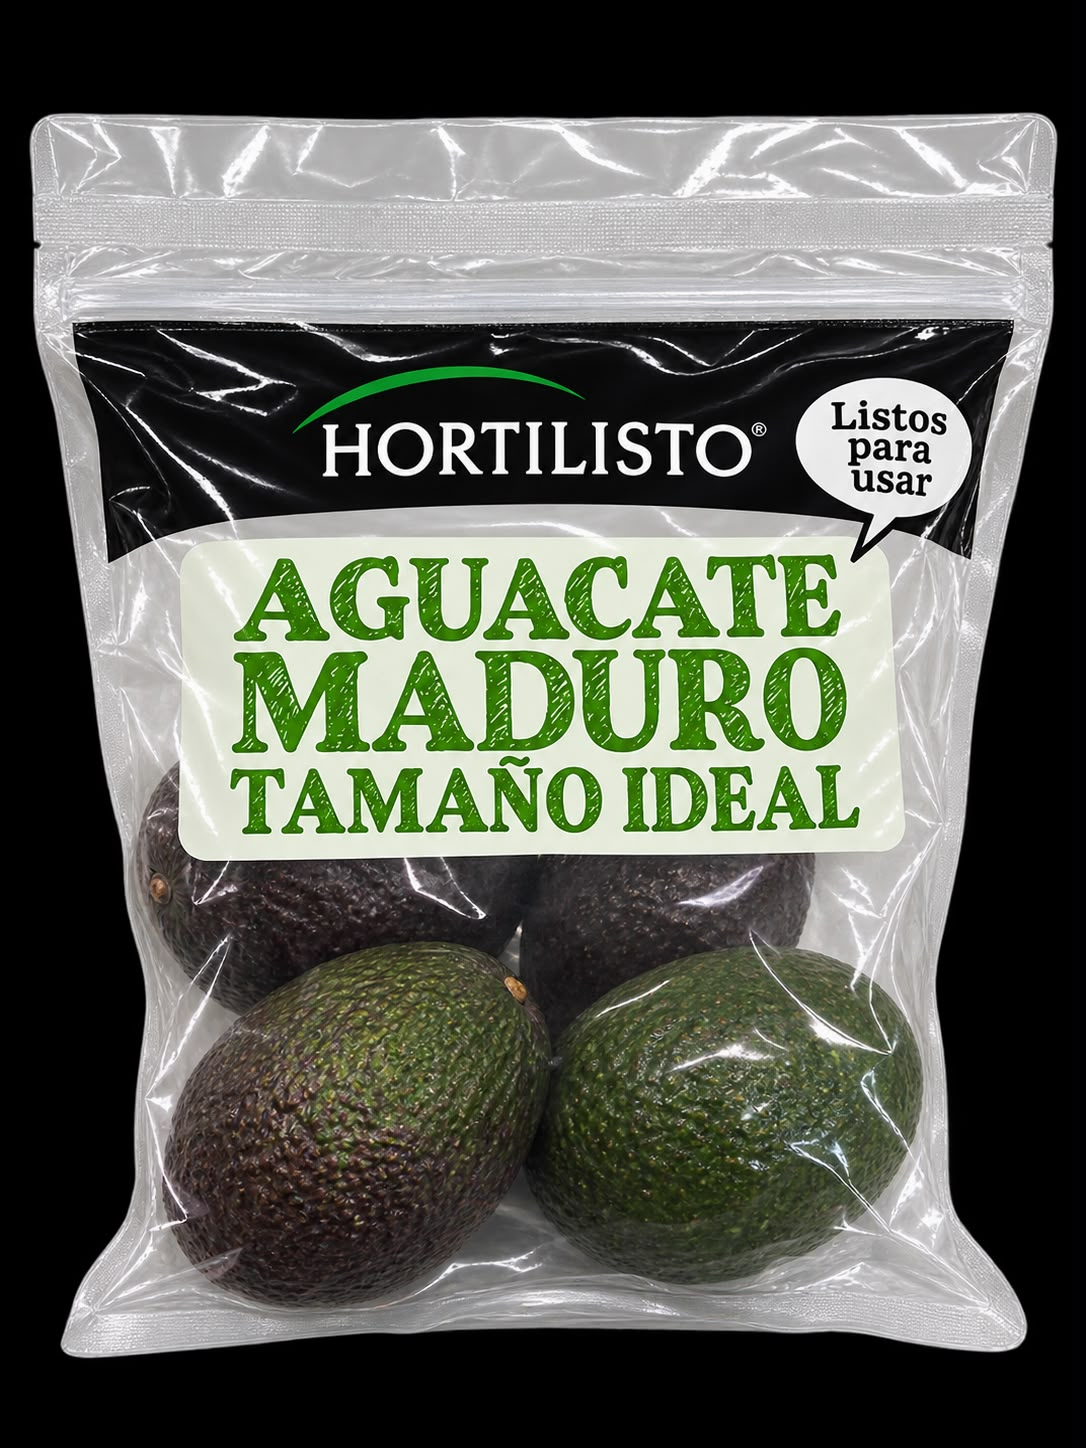
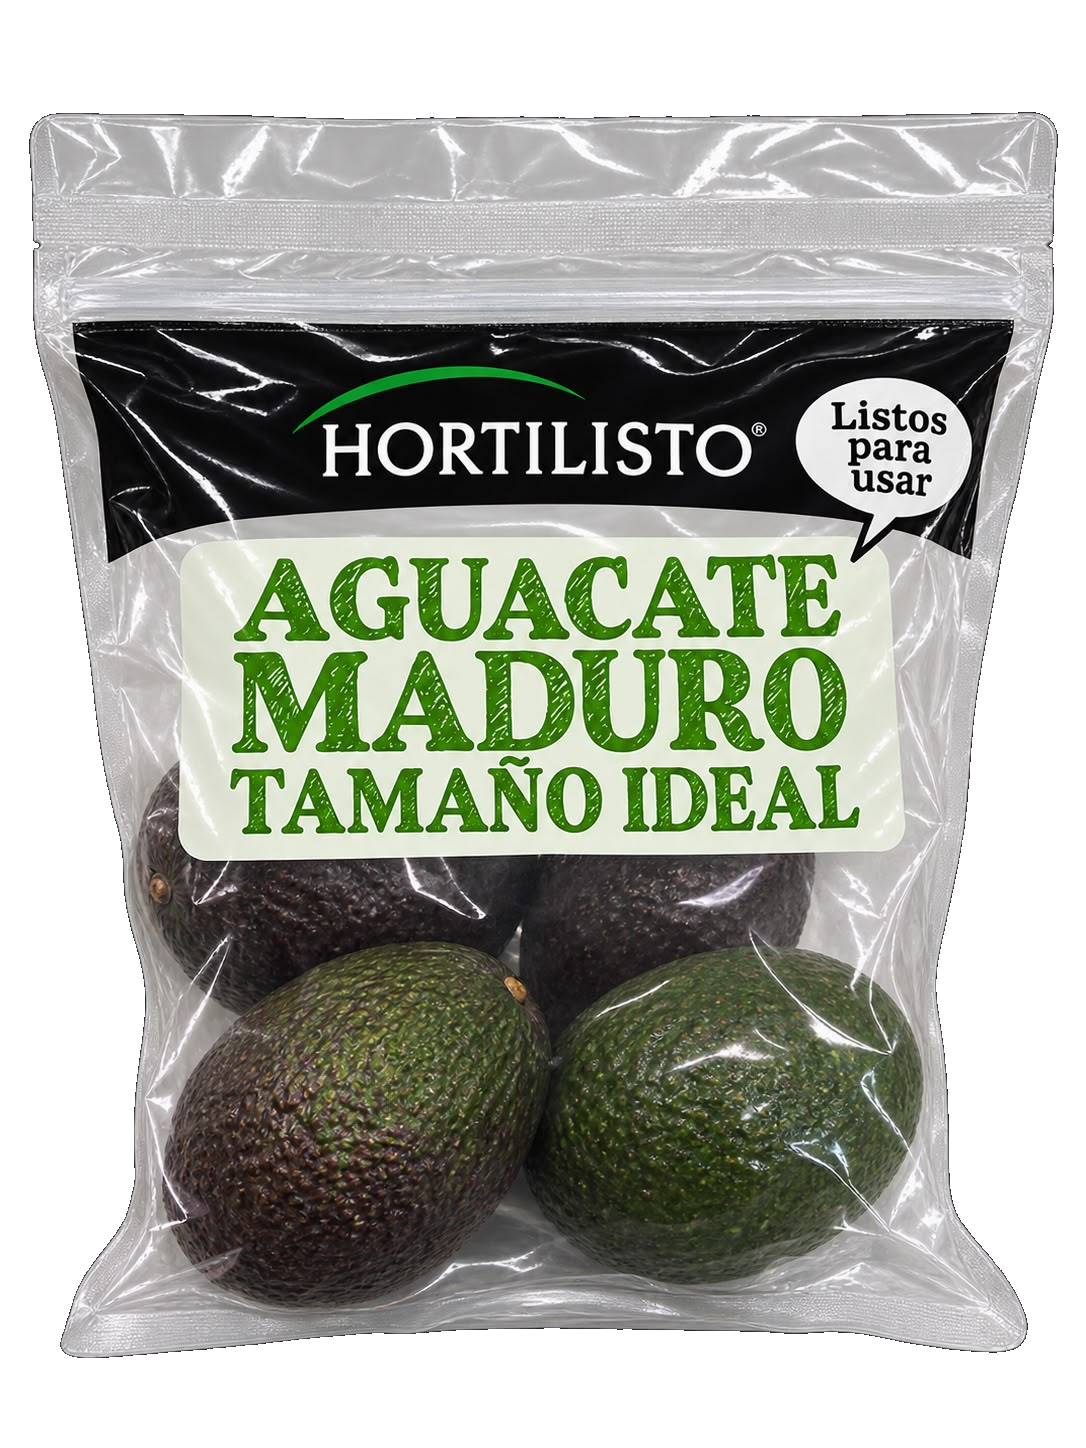
feat(assets): update product images
Replace and add new product images to the asset library.

Changed region(s): [[0.0, 0.0, 1.0, 1.0]]

diff --git a/src/data/brandsData.ts b/src/data/brandsData.ts
@@ -38,7 +38,7 @@ import dhoyColdRemolachaImg from '../assets/remolachanuevocoldpressed.png';
 // DHOY Shots
 import dhoyShotInmuniImg from '../assets/inmunishotjengibre.png';
 import dhoyShotInmuniPlusImg from '../assets/inmunishotplusnuevo.jpeg';
-import dhoyShotBalanceImg from '../assets/Balanceshotnueva.png';
+import dhoyShotEnergyImg from '../assets/energyshotpequeno.png';
 import dhoyShotDigestiImg from '../assets/digestishotplusnuevo.png';
 import dhoyShotDefenImg from '../assets/DEFENSHOTnueva.png';
 
@@ -63,20 +63,20 @@ import ecoloveMielAgaveImg from '../assets/ECOLOVE-MIEL-DE-AGAVE-230ML.png';
 import ecolovePortadaSeccionImg from '../assets/ECOPACIFIC-ECOLOVE-SECCION-PORTADA2026.png';
 
 // HORTILISTO Productos
-import hlAguacateMaduroImg from '../assets/aguacatemaduro.png';
+import hlAguacateMaduroImg from '../assets/aguacatemaduro-1.png';
 import hlAguacatePackSemanalImg from '../assets/aguacatepacksemanal.png';
 import hlAguacateTamanoIdealImg from '../assets/aguacatemadurotamanoideal.png';
-import hlMixCebollaImg from '../assets/mix-cebolla.jpg';
-import hlMegaMixCebollaImg from '../assets/HORTILISTO6megamixcebolla.jpg';
-import hlCebollaPaitenitaImg from '../assets/cebollapaitenita.jpg';
-import hlCebollaPerlitaImg from '../assets/cebollaperlitas.jpg';
+import hlMixCebollaImg from '../assets/cebollasmixnuevas.png';
+import hlMegaMixCebollaImg from '../assets/megacebollanuevo.png';
+import hlCebollaPaitenitaImg from '../assets/paitenitas.png';
+import hlCebollaPerlitaImg from '../assets/perlitasnuevas.png';
 import hlPimientosColoresImg from '../assets/pimientos de colores.jpg';
-import hlZapalloImg from '../assets/zapallo.jpg';
+import hlZapalloImg from '../assets/zapallonuevo.png';
 import hlJengibreImg from '../assets/jengibre200g.jpg';
-import hlPinaGoldenImg from '../assets/pinagolden.jpg';
-import hlGuacamoleImg from '../assets/guacamole.jpg';
+import hlPinaGoldenImg from '../assets/pinagoldenextradulce.png';
+import hlGuacamoleImg from '../assets/guacamolehortilistonuevo.png';
 import hlGuacamoleTomatePimientoImg from '../assets/GUACAMOLE-CON-TOMATE-Y-PIMIENTO.png';
-import hlMangoImg from '../assets/mango.jpg';
+import hlMangoImg from '../assets/mangoencurtidonuevo.png';
 
 export const BRANDS_DATA: Record<string, Brand> = {
   'coco-freeze': {
@@ -241,11 +241,6 @@ export const BRANDS_DATA: Record<string, Brand> = {
         year: '2016',
         title: 'Nacen los shots',
         description: 'Inmunishot de jengibre se convierte en el protagonista de una nueva categoría.'
-      },
-      {
-        year: '2026',
-        title: 'Fruta de verdad',
-        description: 'Seguimos perfeccionando fruta y proceso para lograr un sabor consistentemente delicioso'
       }
     ],
     colors: {
@@ -314,7 +309,7 @@ export const BRANDS_DATA: Record<string, Brand> = {
         id: 'shots',
         name: 'Shots',
         tagline: 'Ingredientes potentes y combinaciones funcionales creadas para acompañar distintos momentos y necesidades de tu rutina.',
-        productIds: ['dh-shot-inmuni', 'dh-shot-inmuni-plus', 'dh-shot-balance', 'dh-shot-digesti', 'dh-shot-defen']
+        productIds: ['dh-shot-inmuni', 'dh-shot-inmuni-plus', 'dh-shot-energy', 'dh-shot-digesti', 'dh-shot-defen']
       },
       {
         id: 'especialidades-dhoy',
@@ -479,13 +474,13 @@ export const BRANDS_DATA: Record<string, Brand> = {
         imageUrl: dhoyShotInmuniPlusImg
       },
       {
-        id: 'dh-shot-balance',
-        name: 'Balanceshot',
+        id: 'dh-shot-energy',
+        name: 'Energyshot',
         brandId: 'dhoy',
         familyId: 'shots',
-        emotionalDescription: 'Cúrcuma y otros ingredientes en una combinación funcional pensada para acompañar tu equilibrio diario.',
+        emotionalDescription: 'Guaraná, maca y café verde en una fórmula pensada para darte un impulso natural de energía.',
         presentations: ['60 ml'],
-        imageUrl: dhoyShotBalanceImg
+        imageUrl: dhoyShotEnergyImg
       },
       {
         id: 'dh-shot-digesti',
@@ -665,7 +660,7 @@ export const BRANDS_DATA: Record<string, Brand> = {
         brandId: 'ecolove',
         familyId: 'aceites-de-aguacate',
         emotionalDescription: 'Con el carácter del aguacate y gran versatilidad en cocina. Su buena estabilidad al calor ayuda a tolerar altas temperaturas con menor oxidación.',
-        presentations: ['250 ml'],
+        presentations: ['250 ml', '500 ml'],
         imageUrl: ecoloveAceiteAguacateImg
       },
       {
@@ -839,15 +834,12 @@ export const BRANDS_DATA: Record<string, Brand> = {
         name: 'Vegetales y frutas listas',
         tagline: 'Nosotros adelantamos el trabajo. Tú haces la comida. Productos seleccionados, pelados, picados o listos para disfrutar.',
         productIds: [
-          'hl-achogcha',
           'hl-mix-cebollas',
           'hl-mix-mega-cebollas',
           'hl-paitenitas',
           'hl-perlita',
           'hl-pimientos-colores',
-          'hl-sambo-picado',
           'hl-zapallo-picado',
-          'hl-verdura-mazo',
           'hl-jengibre-bandeja',
           'hl-pina-golden'
         ]
@@ -895,15 +887,6 @@ export const BRANDS_DATA: Record<string, Brand> = {
         imageUrl: hlAguacateTamanoIdealImg
       },
       {
-        id: 'hl-achogcha',
-        name: 'Achogcha',
-        brandId: 'hortilisto',
-        familyId: 'vegetales-y-frutas-listas',
-        emotionalDescription: 'Lista para convertir una receta tradicional en algo mucho más práctico.',
-        presentations: ['400 g'],
-        imageUrl: hortilistoImg
-      },
-      {
         id: 'hl-mix-cebollas',
         name: 'Mix de cebollas',
         brandId: 'hortilisto',
@@ -949,15 +932,6 @@ export const BRANDS_DATA: Record<string, Brand> = {
         imageUrl: hlPimientosColoresImg
       },
       {
-        id: 'hl-sambo-picado',
-        name: 'Sambo picado',
-        brandId: 'hortilisto',
-        familyId: 'vegetales-y-frutas-listas',
-        emotionalDescription: 'Limpio, picado y listo para convertirse en tu próxima receta.',
-        presentations: ['600 g'],
-        imageUrl: hortilistoImg
-      },
-      {
         id: 'hl-zapallo-picado',
         name: 'Zapallo picado',
         brandId: 'hortilisto',
@@ -965,15 +939,6 @@ export const BRANDS_DATA: Record<string, Brand> = {
         emotionalDescription: 'Todo el sabor del zapallo, con mucho menos trabajo.',
         presentations: ['700 g'],
         imageUrl: hlZapalloImg
-      },
-      {
-        id: 'hl-verdura-mazo',
-        name: 'Verdura en mazo',
-        brandId: 'hortilisto',
-        familyId: 'vegetales-y-frutas-listas',
-        emotionalDescription: 'Una opción práctica para tener vegetales frescos listos cuando los necesitas.',
-        presentations: ['200 g'],
-        imageUrl: hlJengibreImg
       },
       {
         id: 'hl-jengibre-bandeja',

diff --git a/src/components/BrandSubpage.tsx b/src/components/BrandSubpage.tsx
@@ -60,10 +60,10 @@ import kombuchaJengibreImg from '../assets/kombuchajengibre.png';
 
 // HORTILISTO Imágenes
 import imagenHortilistoInicioImg from '../assets/imagenhortilistoinicio.png';
-import hlAguacateMaduroImg from '../assets/aguacatemaduro.png';
-import hlMixCebollaImg from '../assets/mix-cebolla.jpg';
-import hlGuacamoleTomatePimientoImg from '../assets/GUACAMOLE-CON-TOMATE-Y-PIMIENTO.png';
-import hlMangoImg from '../assets/mango.jpg';
+import hlAguacateMaduroImg from '../assets/aguacatemaduro-1.png';
+import hlMixCebollaImg from '../assets/cebollasmixnuevas.png';
+import hlGuacamoleTomatePimientoImg from '../assets/guacamolehortilistonuevo.png';
+import hlMangoImg from '../assets/mangoencurtidonuevo.png';
 
 
 interface BrandSubpageProps {
@@ -221,8 +221,7 @@ export const BrandSubpage: React.FC<BrandSubpageProps> = ({
       if (index === 0) return { img: botellaJugoDhoyNaranjaImg, alt: "2009 Nace DHOY" };
       if (index === 1) return { img: botelladhoyxdxdxdImg, alt: "2011 Llegamos a más personas" };
       if (index === 2) return { img: dhoyfabricaImg, alt: "2012 Tecnología para cuidar la fruta" };
-      if (index === 3) return { img: dhoyshotshitosImg, alt: "2016 Nacen los shots" };
-      return { img: dhoy2026NewBotellaImg, alt: "2026 Fruta de verdad" };
+      return { img: dhoyshotshitosImg, alt: "2016 Nacen los shots" };
     }
     if (brand.id === 'ecolove') {
       if (index === 0) return { img: kombuchaJengibreImg, alt: "2017 Primeros pasos" };
@@ -266,11 +265,11 @@ export const BrandSubpage: React.FC<BrandSubpageProps> = ({
         );
       case 'hortilisto':
         return (
-          <div className="bg-white px-3.5 sm:px-5 py-1 sm:py-1.5 rounded-2xl shadow-lg border border-white/70 flex items-center justify-center shrink-0 h-11 sm:h-14 transition-transform hover:scale-105">
+          <div className="bg-white px-2 sm:px-3 py-0.5 rounded-2xl shadow-lg border border-white/80 flex items-center justify-center shrink-0 h-12 sm:h-15 transition-transform hover:scale-105 overflow-hidden">
             <img
               src={hortilistoTransparentImg}
               alt="Hortilisto"
-              className="h-7 sm:h-10 w-auto max-w-[160px] object-contain"
+              className="h-10 sm:h-13.5 w-auto max-w-[185px] sm:max-w-[215px] object-contain"
             />
           </div>
         );
@@ -447,6 +446,17 @@ export const BrandSubpage: React.FC<BrandSubpageProps> = ({
                 >
                   {language === 'es' ? 'Productos' : 'Products'}
                 </a>
+
+                <button
+                  type="button"
+                  onClick={() => {
+                    setIsDrawerOpen(false);
+                    onOpenContact();
+                  }}
+                  className="px-3 py-2.5 rounded-xl hover:bg-white/10 transition-colors text-left cursor-pointer flex items-center justify-between"
+                >
+                  <span>{language === 'es' ? 'Contacto' : 'Contact'}</span>
+                </button>
               </nav>
             </div>
 

diff --git a/src/components/NosotrosSubpage.tsx b/src/components/NosotrosSubpage.tsx
@@ -155,8 +155,8 @@ export const NosotrosSubpage: React.FC<NosotrosSubpageProps> = ({
 
           <p className="text-base sm:text-xl text-stone-700 leading-relaxed font-normal text-balance max-w-3xl mx-auto">
             {language === 'es'
-              ? 'Ecopacific cree que un producto debe ser delicioso, saludable, innovador y natural. Brindamos más de 200 productos a todo el Ecuador. Estamos orgullosos de liderar la categoría de jugos y frutas en el canal moderno del país. Ecopacific se fundó el 2008 a través de la fusión de emprendimientos familiares: Limón Ecopacific, Coco Freeze y Hortilisto.'
-              : 'Ecopacific believes that a product must be delicious, healthy, innovative, and natural. We provide over 200 products across Ecuador. We are proud to lead the juice and fruit category in the country’s modern channel. Ecopacific was founded in 2008 through the merger of family ventures: Limón Ecopacific, Coco Freeze, and Hortilisto.'}
+              ? 'Ecopacific cree que un producto debe ser delicioso, saludable, innovador y natural. Estamos orgullosos de liderar la categoría de jugos y frutas en el canal moderno del país. Ecopacific se fundó el 2008 a través de la fusión de emprendimientos familiares: Limón Ecopacific, Coco Freeze y Hortilisto.'
+              : 'Ecopacific believes that a product must be delicious, healthy, innovative, and natural. We are proud to lead the juice and fruit category in the country’s modern channel. Ecopacific was founded in 2008 through the merger of family ventures: Limón Ecopacific, Coco Freeze, and Hortilisto.'}
           </p>
 
           <div className="pt-4">

diff --git a/src/data/translations.ts b/src/data/translations.ts
@@ -18,7 +18,7 @@ export const UI_TRANSLATIONS = {
     },
     brandsSection: {
       title: 'Nuestras Marcas',
-      subtitle: 'Más de 200 productos líderes en jugos y frutas en el Ecuador.',
+      subtitle: 'Productos líderes en jugos y frutas en el Ecuador.',
       ctaCard: 'Ver marca',
     },
     historySection: {
@@ -67,7 +67,7 @@ export const UI_TRANSLATIONS = {
       step2: 'Innovación',
       step2Desc: 'Prensado en frío y conservación natural',
       step3: 'Variedad',
-      step3Desc: 'Más de 200 productos frescos y prácticos',
+      step3Desc: 'Productos frescos y prácticos',
       step4: 'Ecuador',
       step4Desc: 'Llegamos a todo el canal moderno del país',
     },
@@ -138,7 +138,7 @@ export const UI_TRANSLATIONS = {
     },
     brandsSection: {
       title: 'Our Brands',
-      subtitle: 'Over 200 products leading the fruit and juice category in Ecuador.',
+      subtitle: 'Leading products in the fruit and juice category in Ecuador.',
       ctaCard: 'View brand',
     },
     historySection: {
@@ -187,7 +187,7 @@ export const UI_TRANSLATIONS = {
       step2: 'Innovation',
       step2Desc: 'Cold-pressed and natural preservation',
       step3: 'Variety',
-      step3Desc: 'Over 200 fresh and convenient products',
+      step3Desc: 'Fresh and convenient healthy products',
       step4: 'Ecuador',
       step4Desc: 'Reaching modern retail stores nationwide',
     },

diff --git a/src/data/brandTranslations.ts b/src/data/brandTranslations.ts
@@ -111,11 +111,6 @@ export const BRAND_TRANSLATIONS_EN: Record<string, BrandTranslationData> = {
         description:
           'Ginger Inmunishot leads the way in a brand new category of daily wellness.',
       },
-      '2026': {
-        title: 'Real fruit taste',
-        description:
-          'Over 15 varieties celebrating the genuine flavor of the Ecuadorian land.',
-      },
     },
     families: {
       'jugo-de-naranja': {
@@ -250,10 +245,10 @@ export const BRAND_TRANSLATIONS_EN: Record<string, BrandTranslationData> = {
         emotionalDescription:
           'An amplified concentration of ginger and citrus for demanding days.',
       },
-      'dh-shot-balance': {
-        name: 'Balance Shot Turmeric',
+      'dh-shot-energy': {
+        name: 'Energyshot',
         emotionalDescription:
-          'Golden turmeric root blend with black pepper extract for natural recovery.',
+          'Guarana, maca, and green coffee crafted for a natural boost of vitality.',
       },
       'dh-shot-digesti': {
         name: 'Digestive Shot',

diff --git a/src/components/Navbar.tsx b/src/components/Navbar.tsx
@@ -215,6 +215,17 @@ export const Navbar: React.FC<NavbarProps> = ({
                 <ArrowRight className="w-5 h-5 opacity-0 group-hover:opacity-100 transition-opacity text-white" />
               </button>
 
+              <button
+                onClick={() => {
+                  setDrawerOpen(false);
+                  onNavigate('/contacto');
+                }}
+                className="block w-full text-left text-2xl sm:text-3xl font-extrabold text-white hover:text-stone-100 transition-colors py-2 cursor-pointer flex items-center justify-between group"
+              >
+                <span>{language === 'es' ? 'Contacto' : 'Contact'}</span>
+                <ArrowRight className="w-5 h-5 opacity-0 group-hover:opacity-100 transition-opacity text-white" />
+              </button>
+
               {/* Trabaja con nosotros dentro del menú */}
               <div className="pt-6 border-t border-white/20">
                 <a

diff --git a/src/components/ContactSubpage.tsx b/src/components/ContactSubpage.tsx
@@ -48,11 +48,6 @@ export const ContactSubpage: React.FC<ContactSubpageProps> = ({
             <h1 className="text-4xl sm:text-5xl md:text-6xl font-black text-white tracking-tight mb-4 drop-shadow-sm">
               {isEs ? 'Hablemos directamente' : "Let's talk directly"}
             </h1>
-            <p className="text-base sm:text-lg text-white/95 leading-relaxed font-light text-balance">
-              {isEs
-                ? 'Sin formularios largos ni esperas. Comunícate al instante con nuestro equipo por WhatsApp o envíanos un correo directo.'
-                : 'No long forms, no waiting. Reach out to our team instantly via WhatsApp or send us a direct email.'}
-            </p>
           </div>
 
           {/* Tarjetas Principales de Contacto Directo: WhatsApp & Correo */}

diff --git a/src/components/BrandsSection.tsx b/src/components/BrandsSection.tsx
@@ -83,11 +83,6 @@ export const BrandsSection: React.FC<BrandsSectionProps> = ({
           <h2 className="text-3xl sm:text-4xl md:text-5xl font-extrabold tracking-tight text-[#5B8C2A] mb-3">
             {t.brandsSection.title}
           </h2>
-          <p className="text-base sm:text-lg md:text-xl font-medium text-stone-700 max-w-xl mx-auto">
-            {language === 'es'
-              ? 'Más de 200 productos en todo el Ecuador.'
-              : 'Over 200 products across Ecuador.'}
-          </p>
         </div>
 
         {/* 4 Cards con SOLO la foto de la marca y la flechita (sin textos ni nombres) */}
